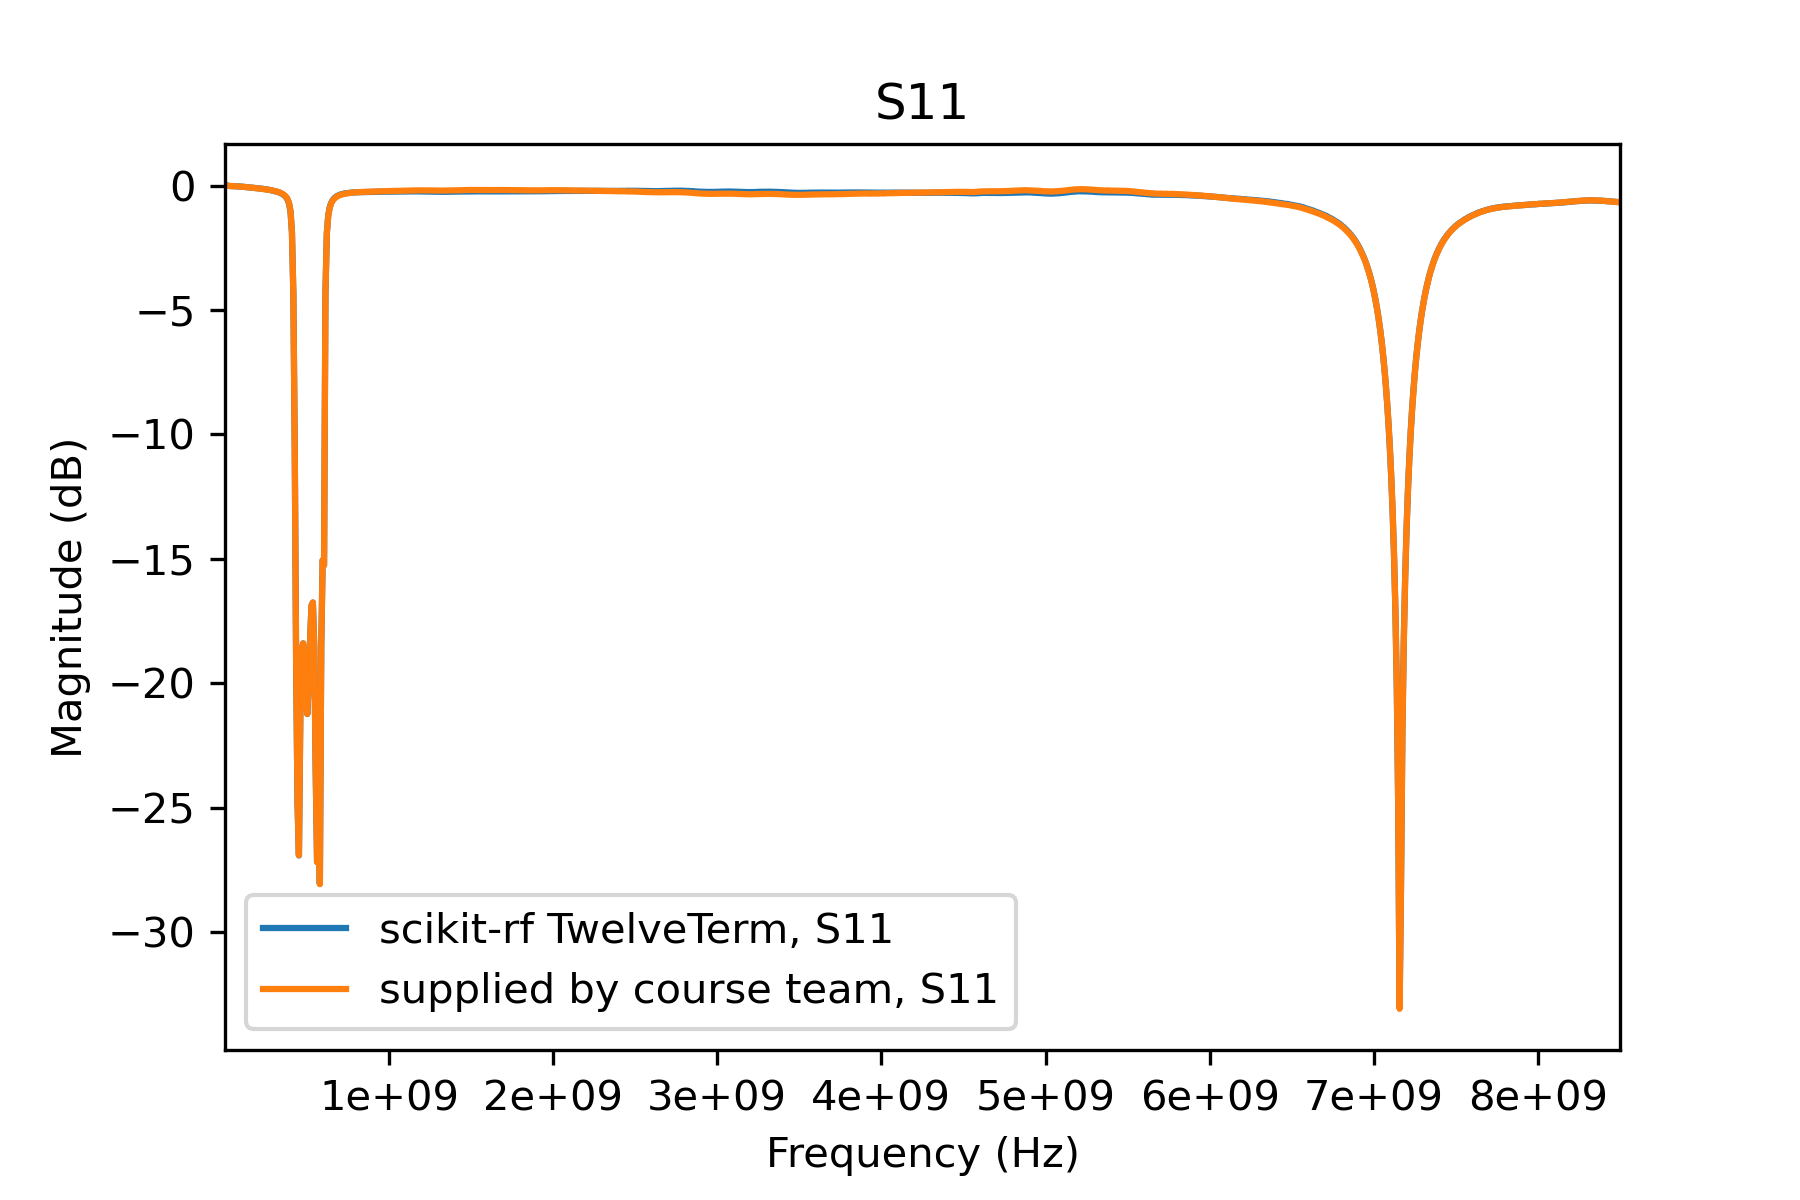
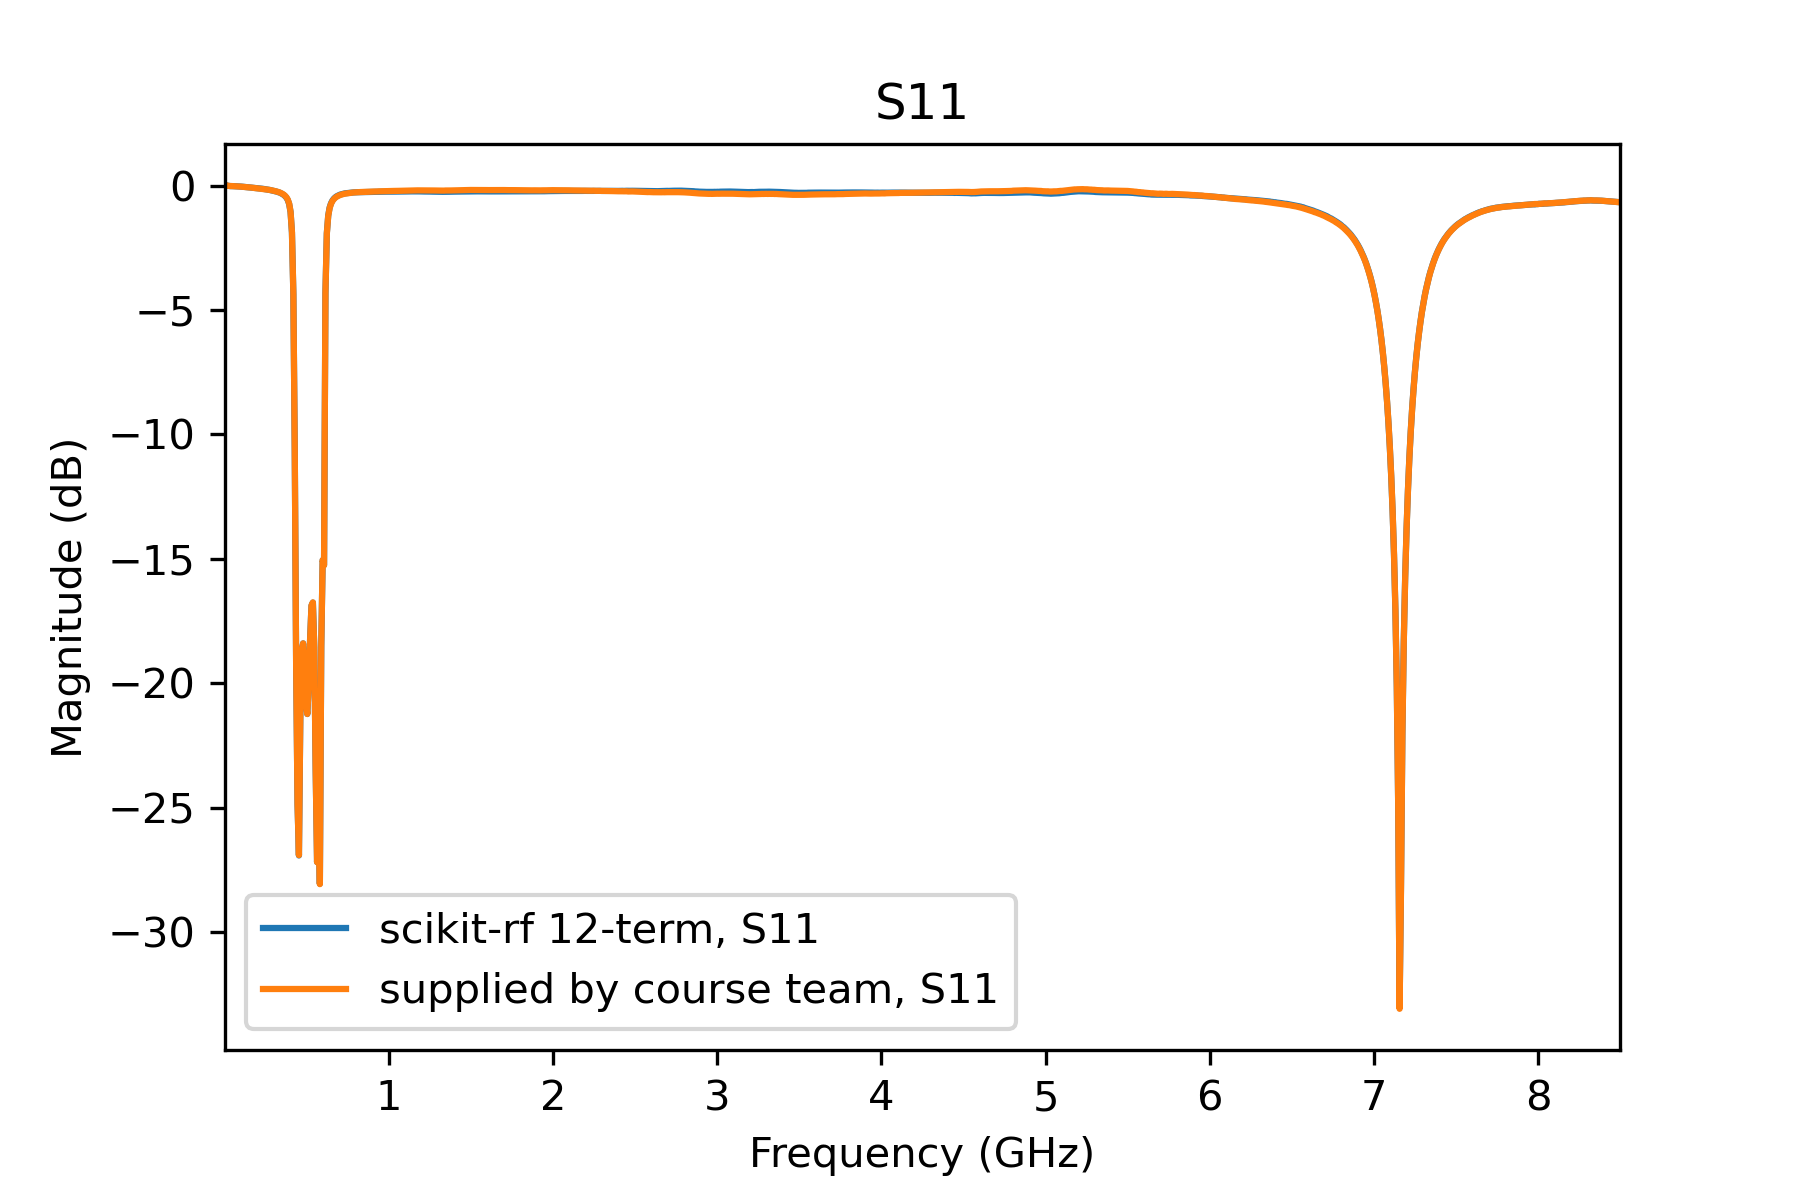
py(feat): add twoport-dataset-2
This dataset has good cal measurements and good result, and shows how the data
should be loaded into the TwelveTerm cal object. Repeat for
short/load/open: S11 result for the
reflective standard on port one becomes S11, S11 result for port two
becomes S22 in a two-port S-param set that has S12, S21 set to zero.
It's not clear that the S11, S22 three-term Cal substitution needs to be
done, based on the data from the good VNA that we have in
twoport-dataset-2. Needs more investigation.

Changed region(s): [[0.1867, 0.8942, 0.9022, 0.9867], [0.3111, 0.74, 0.4978, 0.8017]]

diff --git a/py/prepare-twoport-dataset-2.py b/py/prepare-twoport-dataset-2.py
@@ -15,7 +15,8 @@ Modified 2022-11-10 from prepare-twoport-dataset-1.py
 import json
 import numpy as np
 import skrf as rf
-from skrf.calibration import OnePort, TwelveTerm
+from skrf.plotting import scale_frequency_ticks, add_markers_to_lines
+from skrf.calibration import OnePort, TwelveTerm, EightTerm, SOLT
 from skrf.media import DefinedGammaZ0
 import matplotlib.pyplot as plt
 
@@ -27,7 +28,7 @@ oneport_open_2 = rf.Network('test/measured/twoport-dataset-2/open2.s1p', name="o
 oneport_load_1 = rf.Network('test/measured/twoport-dataset-2/load1.s1p', name="load1")
 oneport_load_2 = rf.Network('test/measured/twoport-dataset-2/load2.s1p', name="load2")
 twoport_thru = rf.Network('test/measured/twoport-dataset-2/thru.s2p', name="thru")
-twoport_dut  = rf.Network('test/measured/twoport-dataset-2/dut.s2p', name="scikit-rf TwelveTerm") #Name for legend later, not what it is now
+twoport_dut  = rf.Network('test/measured/twoport-dataset-2/dut.s2p', name="dut")
 
 f = oneport_short_1.frequency # wants frequency object, not just the array in .f
 
@@ -83,7 +84,7 @@ ideals = [\
 
 
 ## create a Calibration instance
-cal = TwelveTerm(\
+cal12t = TwelveTerm(\
         ideals = ideals,
         measured = measured,
         n_thrus=1,
@@ -92,11 +93,36 @@ cal = TwelveTerm(\
 ## run, and apply calibration to a DUT
 
 # run calibration algorithm
-cal.run()
+cal12t.run()
 
 # # apply it to a dut
-dut_cal = cal.apply_cal(twoport_dut)
+dut_cal12t = cal12t.apply_cal(twoport_dut)
+dut_cal12t.name = "scikit-rf 12-term"
 
+# Eight Term Cal
+cal8t = EightTerm(\
+        ideals = ideals,
+        measured = measured,
+        n_thrus=1,
+        )
+    
+cal8t.run()    
+
+dut_cal8t = cal8t.apply_cal(twoport_dut)
+dut_cal8t.name="scikit-rf 8-term"
+
+# SOLT cal
+
+calsolt = SOLT(\
+        ideals = ideals,
+        measured = measured,
+        n_thrus=1,
+        )
+    
+calsolt.run()
+
+dut_calsolt = calsolt.apply_cal(twoport_dut) 
+dut_calsolt.name = "scikit-rf SOLT"
 
 
 # # # check results against supplied data
@@ -104,76 +130,122 @@ dut_sup = rf.Network('test/supplied/twoport-dataset-2/dut_cor.s2p', name='suppli
 
 # # check results against supplied data
 
-plt.figure()
+fig = plt.figure()
 plt.title("S21")
-dut_cal.plot_s_db(1,0)
+dut_cal12t.plot_s_db(1,0)
 dut_sup.plot_s_db(1,0)
+scale_frequency_ticks(fig.gca(), "GHz")
+plt.xlabel("Frequency (GHz)")
 plt.savefig("img/twoport-dataset-2/12t-vs-sup-s21-db.png",dpi=300)
 plt.show()
 plt.close()
 
-plt.figure()
+fig = plt.figure()
 plt.title("S21")
-dut_cal.plot_s_db(1,0)
+dut_cal12t.plot_s_db(1,0)
 dut_sup.plot_s_db(1,0)
 plt.xlim([4e8,6e8])
 plt.ylim([-3.3,-1.1])
+scale_frequency_ticks(fig.gca(), "GHz")
+plt.xlabel("Frequency (GHz)")
 plt.savefig("img/twoport-dataset-2/12t-vs-sup-s21-db-zoom.png",dpi=300)
 plt.show()
 plt.close()
 
-plt.figure()
+fig = plt.figure()
 plt.title("S12")
-dut_cal.plot_s_db(0,1)
+dut_cal12t.plot_s_db(0,1)
 dut_sup.plot_s_db(0,1)
+scale_frequency_ticks(fig.gca(), "GHz")
+plt.xlabel("Frequency (GHz)")
 plt.savefig("img/twoport-dataset-2/12t-vs-sup-s12-db.png",dpi=300)
 plt.show()
 plt.close()
 
-plt.figure()
+fig = plt.figure()
 plt.title("S12")
-dut_cal.plot_s_db(0,1)
+dut_cal12t.plot_s_db(0,1)
 dut_sup.plot_s_db(0,1)
 plt.xlim([4e8,6e8])
 plt.ylim([-3.3,-1.1])
+scale_frequency_ticks(fig.gca(), "GHz")
+plt.xlabel("Frequency (GHz)")
 plt.savefig("img/twoport-dataset-2/12t-vs-sup-s12-db-zoom.png",dpi=300)
 plt.show()
 plt.close()
 
-
-plt.figure()
+fig = plt.figure()
 plt.title("S11")
-dut_cal.plot_s_db(0,0)
+dut_cal12t.plot_s_db(0,0)
 dut_sup.plot_s_db(0,0)
+scale_frequency_ticks(fig.gca(), "GHz")
+plt.xlabel("Frequency (GHz)")
 plt.savefig("img/twoport-dataset-2/12t-vs-sup-s11-db.png",dpi=300)
 plt.show()
 plt.close()
 
-plt.figure()
+fig = plt.figure()
 plt.title("S22")
-dut_cal.plot_s_db(1,1)
+dut_cal12t.plot_s_db(1,1)
 dut_sup.plot_s_db(1,1)
+scale_frequency_ticks(fig.gca(), "GHz")
+plt.xlabel("Frequency (GHz)")
 plt.savefig("img/twoport-dataset-2/12t-vs-sup-s22-db.png",dpi=300)
 plt.show()
 plt.close()
 
-plt.figure()
+fig = plt.figure()
 plt.title("S12, S21")
-dut_cal.plot_s_db(0,1)
-dut_cal.plot_s_db(1,0)
+dut_cal12t.plot_s_db(0,1)
+dut_cal12t.plot_s_db(1,0)
+scale_frequency_ticks(fig.gca(), "GHz")
+plt.xlabel("Frequency (GHz)")
 plt.savefig("img/twoport-dataset-2/12t-vs-sup-s12s21-db-twelveterm.png",dpi=300)
 plt.show()
 plt.close()
 
-plt.figure()
+fig = plt.figure()
 plt.title("S12, S21")
 dut_sup.plot_s_db(1,0)
 dut_sup.plot_s_db(0,1)
+scale_frequency_ticks(fig.gca(), "GHz")
+plt.xlabel("Frequency (GHz)")
 plt.savefig("img/twoport-dataset-2/12t-vs-sup-s12s21-db-supplied.png",dpi=300)
 plt.show()
 plt.close()
 
 
+fig = plt.figure()
+plt.title("S21")
+dut_cal8t.plot_s_db(1,0)
+dut_cal12t.plot_s_db(1,0)
+dut_calsolt.plot_s_db(1,0)
+dut_sup.plot_s_db(1,0)
+plt.xlim([4e8,6e8])
+plt.ylim([-3.3,-1.1])
+scale_frequency_ticks(fig.gca(), "GHz")
+plt.xlabel("Frequency (GHz)")
+add_markers_to_lines(ax=fig.gca())
+plt.legend() #call again to show markers
+plt.savefig("img/twoport-dataset-2/8t-12t-solt-vs-sup-s21-db-zoom.png",dpi=300)
+plt.show()
+plt.close()
+
+fig = plt.figure()
+plt.title("S12")
+dut_cal8t.plot_s_db(0,1)
+dut_cal12t.plot_s_db(0,1)
+dut_calsolt.plot_s_db(0,1)
+dut_sup.plot_s_db(0,1)
+plt.xlim([4e8,6e8])
+plt.ylim([-3.3,-1.1])
+scale_frequency_ticks(fig.gca(), "GHz")
+plt.xlabel("Frequency (GHz)")
+add_markers_to_lines(ax=fig.gca())
+plt.legend()#call again to show markers
+plt.savefig("img/twoport-dataset-2/8t-12t-solt-vs-sup-s12-db-zoom.png",dpi=300)
+plt.show()
+plt.close()
 
 
 
